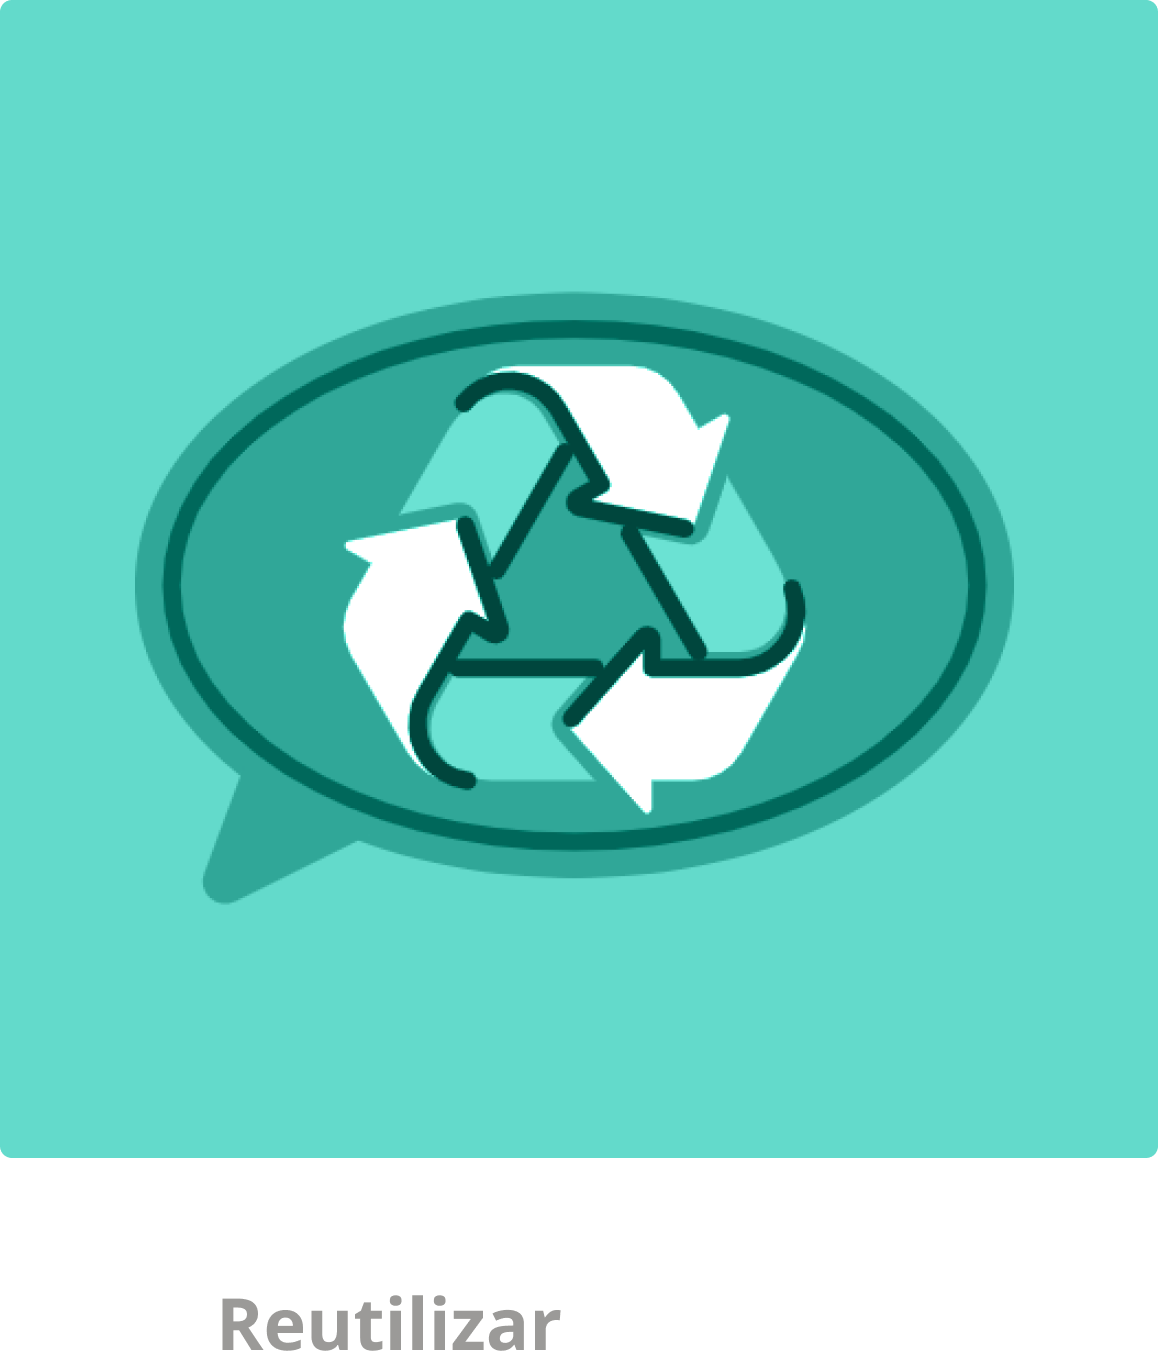
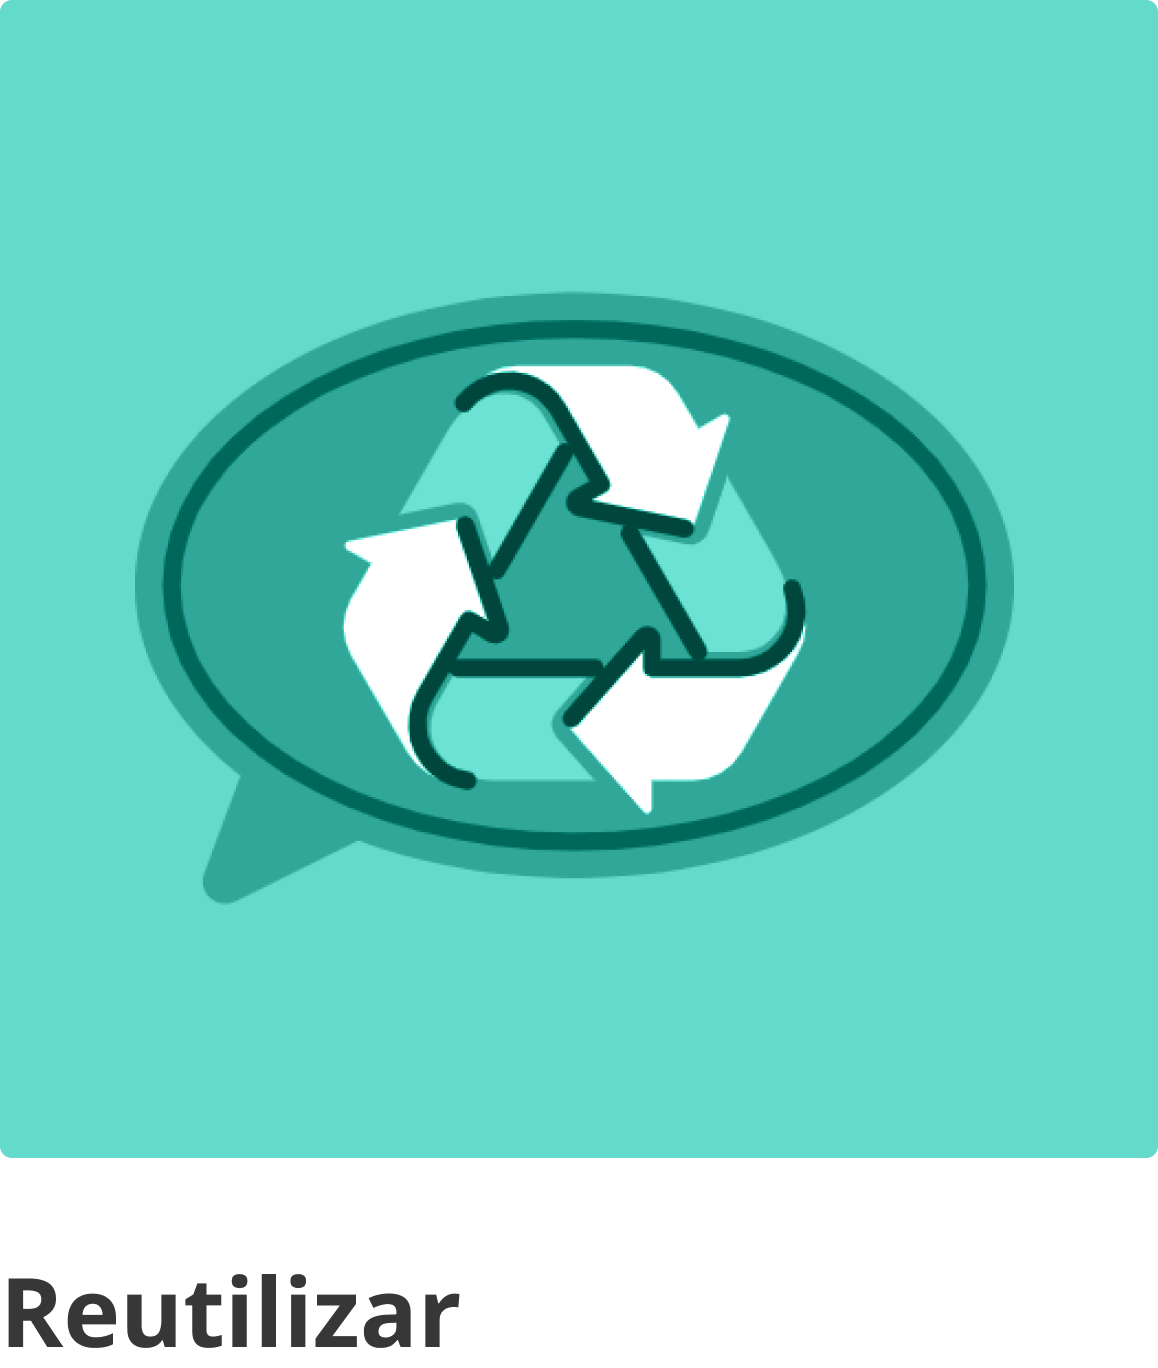
fixes

diff --git a/team25/src/components/header/Header.js b/team25/src/components/header/Header.js
@@ -1,6 +1,6 @@
 import React from "react"
 import { HeaderContainer } from "./styledHeader"
-import logo from "../../assets/logo/aws_grandetryagain.png"
+import logo from "../../assets/logo/logoblack.png"
 import { useNavigate } from "react-router-dom"
 import BaseButton from "../base-button/BaseButton"
 

diff --git a/team25/src/components/header/styledHeader.js b/team25/src/components/header/styledHeader.js
@@ -20,7 +20,7 @@ export const HeaderContainer = styled.header`
       font-style: normal;
       font-weight: 600;
       font-size: 18px;
-      color: white;
+      color: ${colors.gray3};
     }
     img {
       width: 156px;
